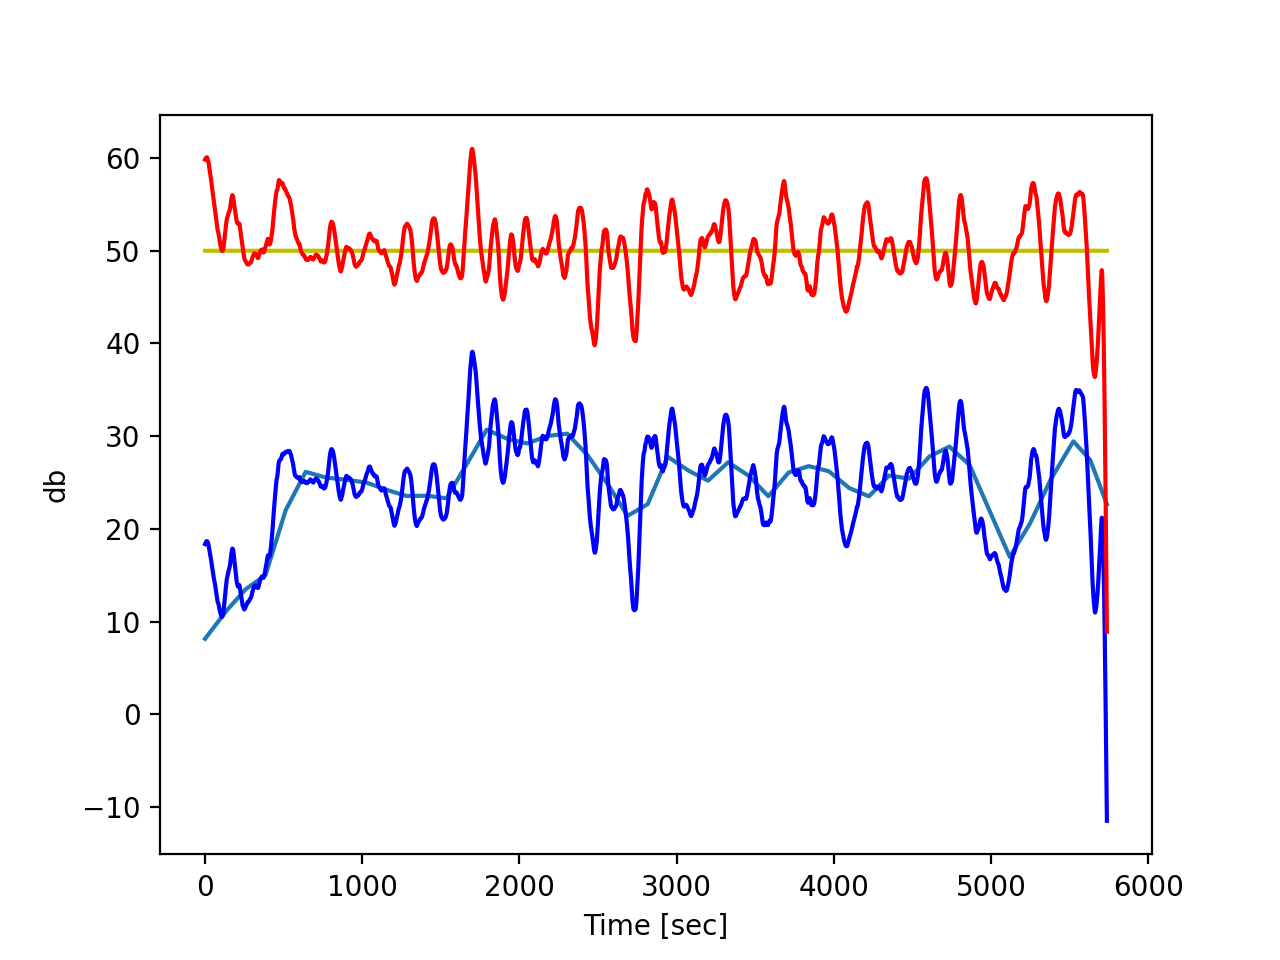
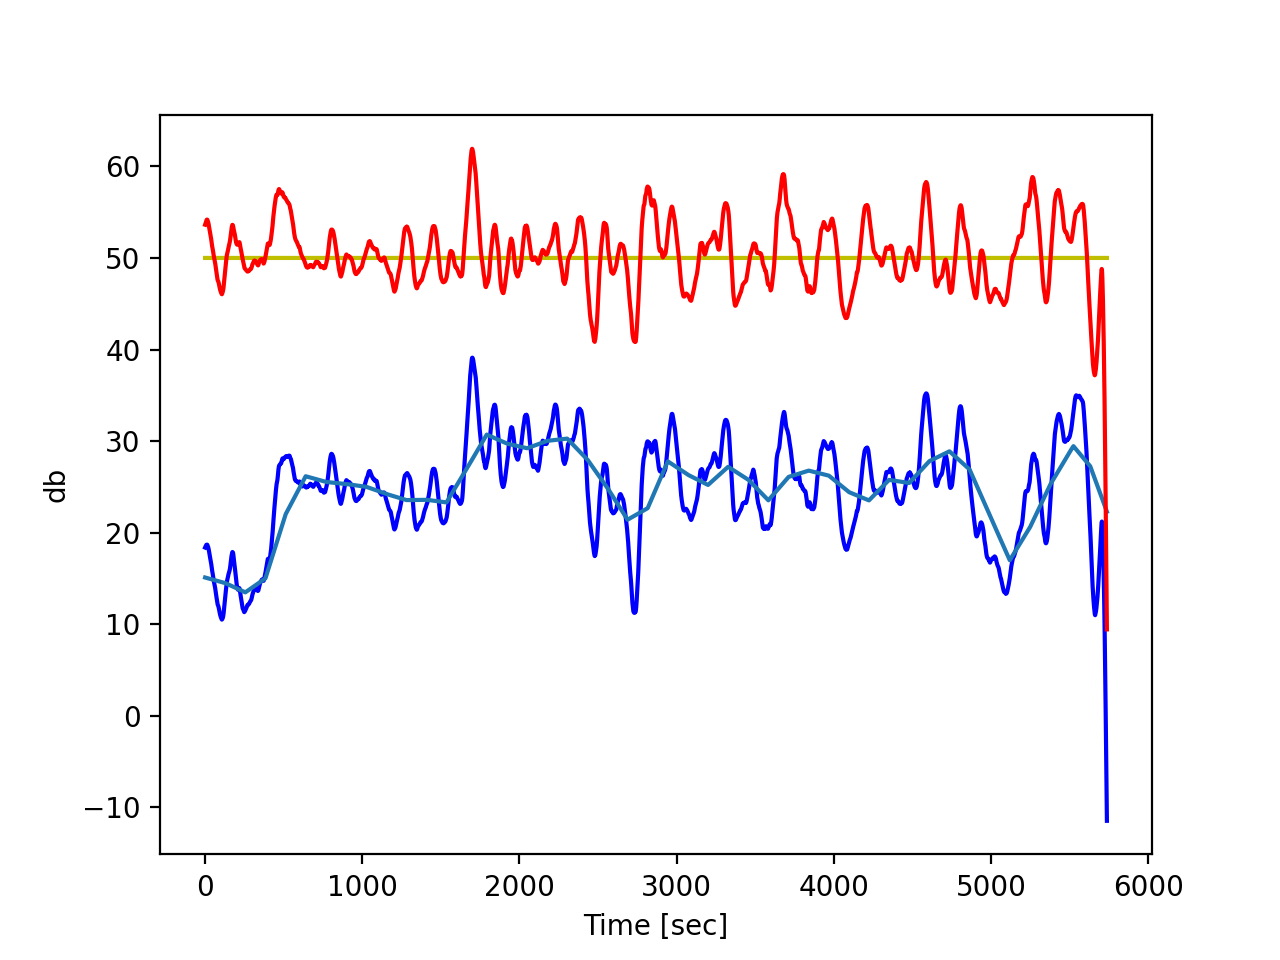
Improve edge handling
- Improved edge handling
- Added two optional arguments

diff --git a/wlev.py b/wlev.py
@@ -13,11 +13,15 @@ import argparse
 parser = argparse.ArgumentParser(description='Script to automatically adjust the volume of wav.')
 parser.add_argument('arg1', help='[inputfile]')
 parser.add_argument('arg2', help='[outputfile]')
-parser.add_argument('-d', '--db', type=int, default=50, choices=range(30,71), help='[target db]')
-args = parser.parse_args()#wav は 90db まで表現できる
+parser.add_argument('-d', '--db', type=int, default=50, choices=range(30,71), help='[target db]')#https://achapi2718.blogspot.com/2011/12/dbbit.html
+parser.add_argument('-w', '--window', type=int, default=64, help='[Width of the window function]')
+parser.add_argument('-n', '--n', type=int, default=1024, help='[samplesize of to_db]')
+args = parser.parse_args()
 input = os.path.abspath(args.arg1)
 output = os.path.abspath(args.arg2)
 target_db = args.db
+W = args.window# 小さくすると無音からの立ち上がりへの応答が速くなるが，音量の強弱を失っていく
+N = args.n#to_db のサンプルサイズ # 調整する意味はあまりないと思う
 
 # 入力の絶対パスを解析
 if os.path.isfile(input) == False:
@@ -26,6 +30,9 @@ if os.path.isfile(input) == False:
 input_splitext = os.path.splitext(input)[1]
 if input_splitext != '.wav' and input_splitext != '.WAV':
     print("The extension of the first argument must be \'.wav\' or \'.WAV\'.")
+    sys.exit()
+if os.path.isfile(output) == True:
+    print("Output file already exists.")
     sys.exit()
 
 #https://tips-memo.com/python-db
@@ -56,23 +63,38 @@ with wave.open(input) as wav:
         wav_type = np.int32
     else:
         # https://qiita.com/Dsuke-K/items/2ad4945a81644db1e9ff
-        print("Sample width : ", samplewidth)
+        print("wlev.py: Sample width is ", samplewidth)
         sys.exit()
     data = np.frombuffer(wav.readframes(nframes), dtype=wav_type).copy()
 
 T = round(nframes/framerate) + 1 #sec
 t=np.array(range(T))#デシベル変換とグラフに用いる時間の配列
+extended_t=np.array(range(T+2*W))
 dest = np.empty(nchannels * nframes)#配列 data と分けないと音質が劣化する
+mag = np.empty(nchannels * nframes)
+tmp_db = np.empty(T)
+bias_db = np.empty(nchannels * T)
+
+if W > T:
+    print(f"wlev.py: The wav file is too short. The duration of the wav file must be longer than {W} seconds.")
+    sys.exit()
+
+if N > framerate:
+    N = framerate
+    print(f"wlev.py: Too-large samplesize of to_db \'{N}\' are limited to frameratesize \'{framerate}\'.")
 
 for whichchannel in range(nchannels):
+    #端をケア
+    extended_data = np.concatenate([-data[whichchannel:W*framerate*nchannels+whichchannel:nchannels][::-1], data[whichchannel::nchannels], -data[-W*framerate*nchannels+whichchannel::nchannels][::-1]])
     #デシベル変換
-    db = to_db(data[whichchannel::nchannels], 1024, t)
+    extended_db = to_db(extended_data, N, extended_t)
     #stftで直流バイアスを得る
-    f, stft_t, stft_data = sp.stft(db, fs = 1, window = "hann", nperseg = 256)
-    db = np.repeat(np.real(stft_data[0,:]), stft_t[1] - stft_t[0])[:T]
-    db = smoothing(db, 256)
-    mag = np.repeat(np.power(10, (target_db - db)/20), framerate)[:nframes]
-    dest[whichchannel::nchannels] = data[whichchannel::nchannels] * mag#data と dest 分けないとここで劣化
+    f, stft_t, stft_data = sp.stft(extended_db, fs = 1, window = "hann", nperseg = W)
+    tmp_db = np.repeat(np.real(stft_data[0,2:-2]), stft_t[1] - stft_t[0])[:T]
+    bias_db[whichchannel::nchannels] = smoothing(tmp_db, W)
+
+mag = np.repeat(np.power(10, (target_db - bias_db)/20 ), framerate)[:nframes * nchannels]
+dest = data * mag#data と dest 分けないとここで劣化
 
 # マキシマイズと型変換
 dest[dest > np.iinfo(wav_type).max] = np.iinfo(wav_type).max
@@ -87,14 +109,12 @@ with wave.open(output, 'w') as wav:
     wav.writeframes(dest)
 
 """
-db1 = smoothing(db, 60);db1 = smoothing(db1, 30)
-db2 = to_db(data, 1024, t);db2 = smoothing(db2, 60);db2 = smoothing(db2, 30)
-db3 = np.ones(T)*50
 e_time = time.time() - s_time; print(f'{e_time}秒かかりました！') # 実行時間 = 終了時間 - 開始時間
-plt.xlabel("Time [sec]");plt.ylabel("db")
-plt.plot(t,db)
-plt.plot(t,db3,'y')
-plt.plot(t,db1,'b')
-plt.plot(t,db2,'r')
-plt.show()
+for whichchannel in range(nchannels):
+    line = np.ones(T)*target_db;plt.plot(t,line,'y')
+    db_ori = to_db(data[whichchannel::nchannels], N, t);db_ori = smoothing(db_ori, 60);db_ori = smoothing(db_ori, 30);plt.plot(t,db_ori,'b')
+    plt.plot(t,bias_db[whichchannel::nchannels])
+    db3 = to_db(dest[whichchannel::nchannels], N, t);db3 = smoothing(db3, 60);db3 = smoothing(db3, 30);plt.plot(t,db3,'r')
+    plt.xlabel("Time [sec]");plt.ylabel("db")
+    plt.show()
 """

diff --git a/README.md b/README.md
@@ -5,8 +5,9 @@
 
 - wavの音量を自動で調節するスクリプト
   - 多チャンネル wav 対応
-  - 音量を指定するには `-d` か `--db`
-    - デフォルト値は 50 db
+  - 音量（デフォルト 50 [db] ）を指定するには `-d` か `--db`
+  - 窓関数の幅（デフォルト 64 [sec] ）を指定するには `-w` か `--window`
+  - デシベル変換のサンプルサイズ（デフォルト 1024 ）を指定するには `-n` か `--n`
 - 音量を一定にするだけでは強弱の情報を失い違和感が生まれるので工夫した
   - 音量の直流バイアスを調節の基準にとる
   - wav が壊れないようにマキシマイズするのみに留めている
@@ -16,7 +17,7 @@
   - リアルタイム処理専用のツールばかりだからバッチ処理用ツールは作り甲斐がある
 - 名前は "wav auto level" から
 - 歩きまわる人間のボリュームを調節し続ける作業から解放されるのはかなり便利でとても役に立つ
-- ↓ 48 kHz, 16 bit, 95分のステレオ音声の処理にかかる時間は1分程度
+- 48 kHz, 16 bit, 95分のステレオ音声の処理にかかる時間は1分程度 ↓
 ![wlev_50](resouces/wlev_50.png)
 
 ## [wav_conversion.py](wav_conversion.py)
